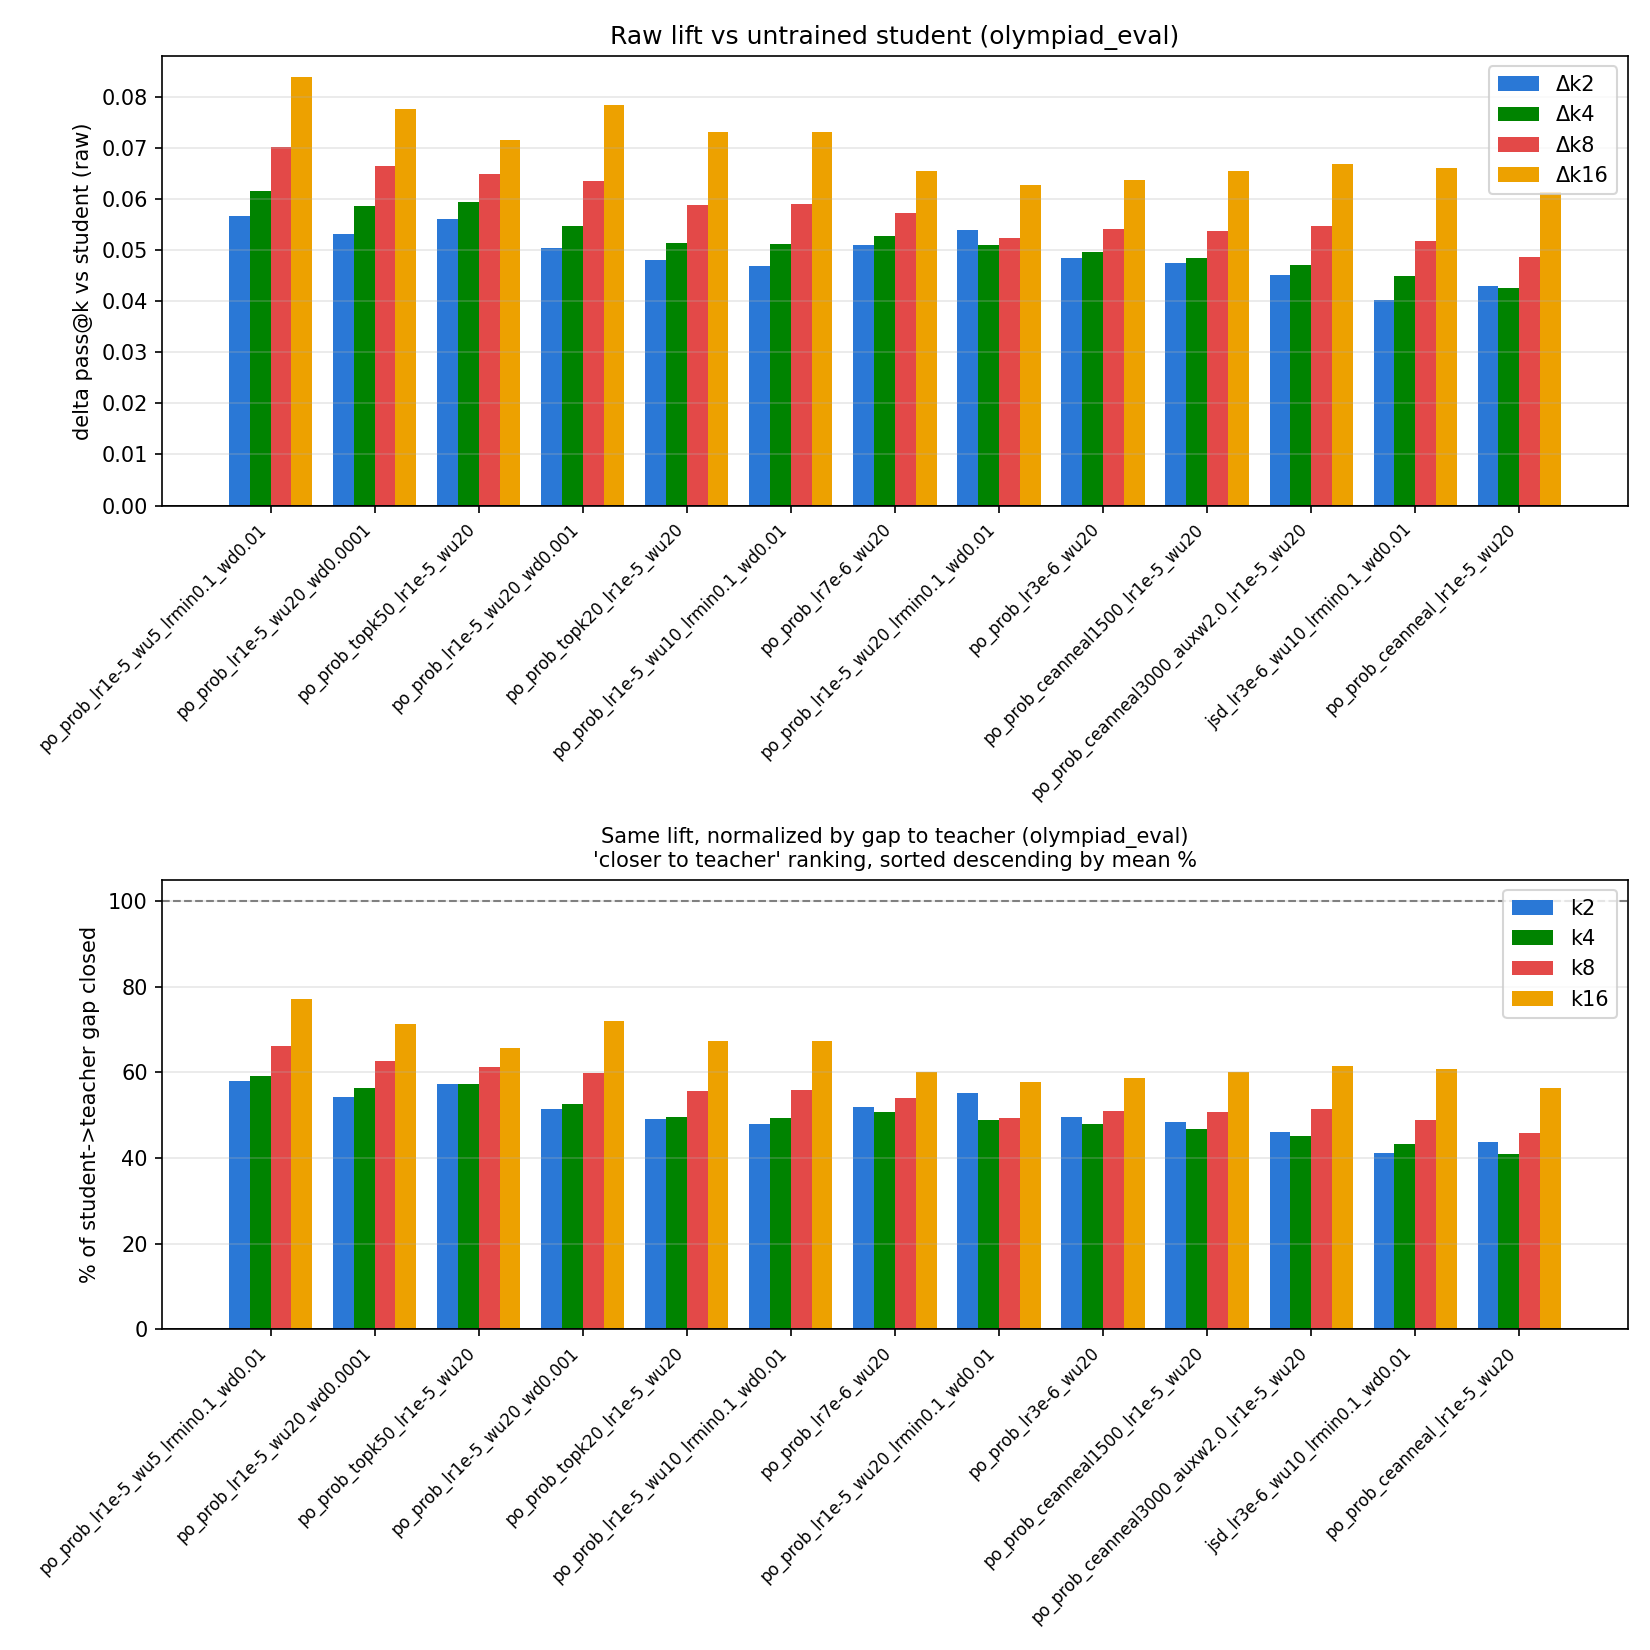
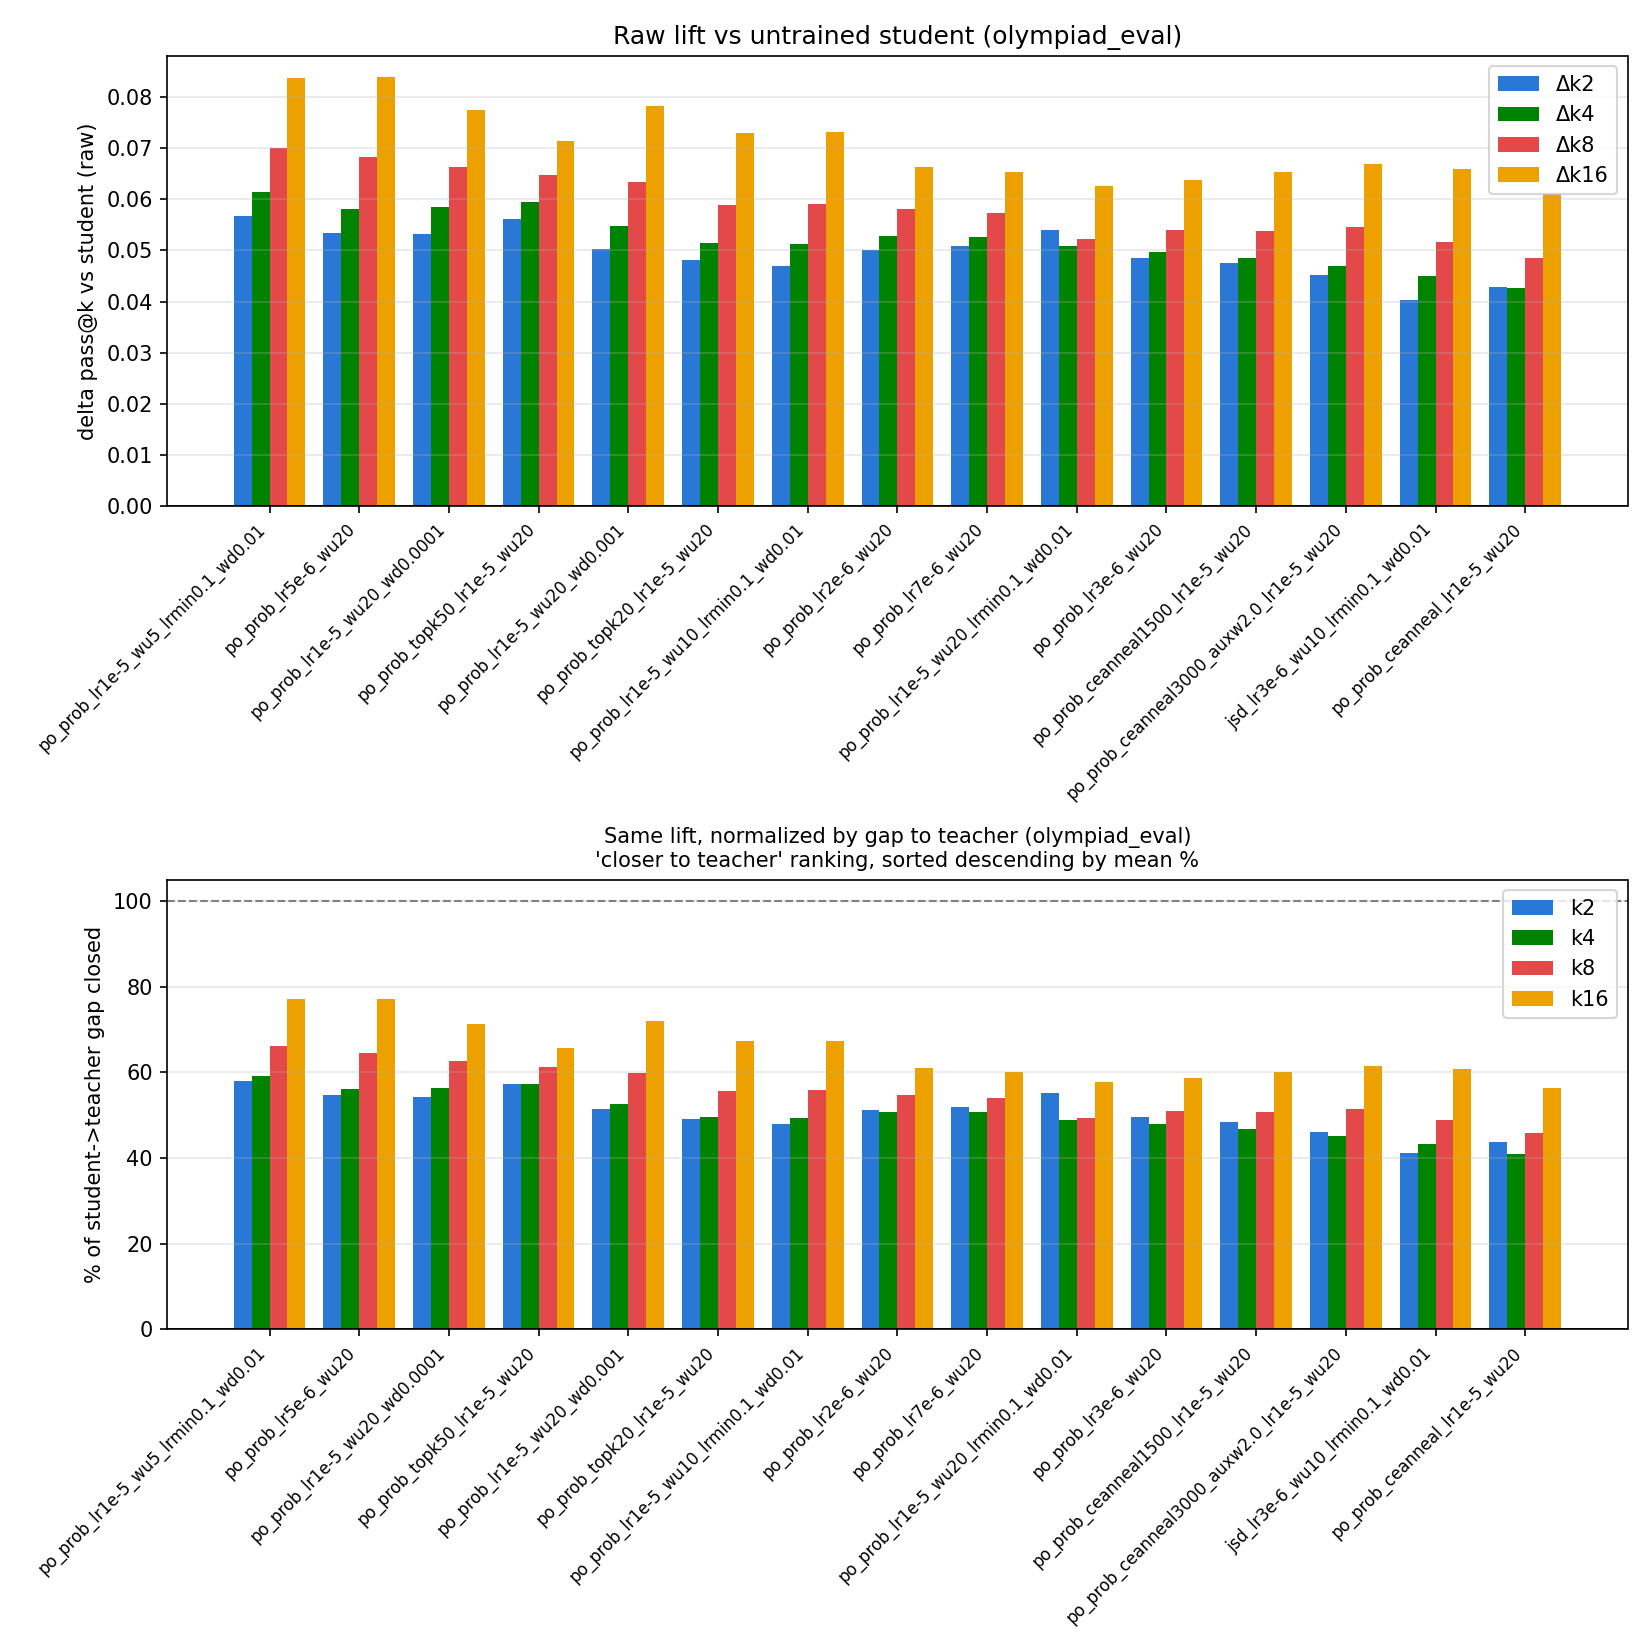
plot_gap_closed: auto-derive significant checkpoints per dataset
Removes the hardcoded olympiad-only checkpoint list -- now derives
the noise-floor-significant set independently for each dataset (same
rule as analyze_passk_movement.py's SS1), since math_eval/gsm8k_eval/
olympiad_eval each have their own floor and their own noise. Adds
gap_closed charts for math_eval and gsm8k_eval alongside olympiad.

diff --git a/scripts/plot_gap_closed.py b/scripts/plot_gap_closed.py
@@ -16,11 +16,22 @@ so the best "lifter" is always leftmost.
 
 USAGE:
     python scripts/plot_gap_closed.py --dataset olympiad_eval.jsonl
+    python scripts/plot_gap_closed.py --dataset math_eval.jsonl
+    # override with an explicit list instead of auto-deriving:
     python scripts/plot_gap_closed.py --dataset math_eval.jsonl --checkpoints po_prob_lr3e-6_wu20,po_prob_lr7e-6_wu20
+
+CHECKPOINT SELECTION: by default, auto-derives the "significant" set the same
+way analyze_passk_movement.py's §1 does -- every 0.6B/8B checkpoint in the CSV
+whose delta-vs-student clears the derived per-k noise floor (2 x std over the
+flat low-LR prefix_overlap/prob cluster) at ANY of k2/k4/k8/k16. This means the
+significant set is genuinely different per dataset (math_eval/gsm8k_eval/
+olympiad_eval each have their own floor and their own noise), not a hardcoded
+list copied from one dataset's report. Pass --checkpoints to override.
 """
 import argparse
 import csv
 import os
+import statistics
 
 import matplotlib
 matplotlib.use("Agg")
@@ -29,22 +40,20 @@ import numpy as np
 
 K_OF_INTEREST = [2, 4, 8, 16]
 
-# significant (above-noise-floor) checkpoints from analyze_passk_movement.py's
-# olympiad_eval report -- override with --checkpoints for another dataset/list.
-DEFAULT_CHECKPOINTS = [
-    "po_prob_lr1e-5_wu5_lrmin0.1_wd0.01", "po_prob_lr1e-5_wu20_wd0.0001",
-    "po_prob_topk50_lr1e-5_wu20", "po_prob_lr1e-5_wu20_wd0.001",
-    "po_prob_lr1e-5_wu10_lrmin0.1_wd0.01", "po_prob_topk20_lr1e-5_wu20",
-    "po_prob_lr7e-6_wu20", "po_prob_ceanneal3000_auxw2.0_lr1e-5_wu20",
-    "po_prob_lr3e-6_wu20", "po_prob_ceanneal1500_lr1e-5_wu20",
-    "po_prob_lr1e-5_wu20_lrmin0.1_wd0.01", "jsd_lr3e-6_wu10_lrmin0.1_wd0.01",
-    "po_prob_ceanneal_lr1e-5_wu20",
+NOISE_CLUSTER_PROB_06B_8B = [
+    "po_prob_lr1e-6_wu20", "po_prob_lr3e-6_wu20", "po_prob_lr7e-6_wu20",
+    "po_prob_lr1e-5_wu20_lrmin0.1_wd0.01",
 ]
 
 
 def load_csv(path):
     with open(path, encoding="utf-8") as f:
         return list(csv.DictReader(f))
+
+
+def run_name(model_path):
+    parts = model_path.rstrip("/").split("/")
+    return parts[-2] if len(parts) >= 2 else model_path
 
 
 def passk_at_frag(rows, frag, ds, k):
@@ -61,18 +70,43 @@ def passk_at_exact(rows, name, ds, k):
     return None
 
 
+def derive_noise_floor(rows, ds):
+    floor = {}
+    for k in K_OF_INTEREST:
+        vals = [v for v in (passk_at_frag(rows, f, ds, k) for f in NOISE_CLUSTER_PROB_06B_8B) if v is not None]
+        floor[k] = 2 * statistics.stdev(vals) if len(vals) >= 3 else None
+    return floor
+
+
+def auto_significant_checkpoints(rows, ds, student, floor):
+    """Same rule as analyze_passk_movement.py's §1: every checkpoint with at
+    least one |delta vs student| clearing that k's derived noise floor."""
+    all_names = sorted(set(run_name(r["model"]) for r in rows))
+    significant = []
+    for name in all_names:
+        for k in K_OF_INTEREST:
+            v = passk_at_frag(rows, name, ds, k)
+            if v is None or student.get(k) is None or floor.get(k) is None:
+                continue
+            if abs(v - student[k]) >= floor[k]:
+                significant.append(name)
+                break
+    return significant
+
+
 def main():
     ap = argparse.ArgumentParser()
     ap.add_argument("--csv", default="results/passK/passk_hparam_sweep.csv")
     ap.add_argument("--baselines_csv", default="results/passK/passk_baselines.csv")
     ap.add_argument("--dataset", default="olympiad_eval.jsonl")
-    ap.add_argument("--checkpoints", default=",".join(DEFAULT_CHECKPOINTS))
+    ap.add_argument("--checkpoints", default=None,
+                    help="comma list to override; default auto-derives the "
+                         "noise-floor-significant set for this dataset")
     ap.add_argument("--outdir", default="results/passK")
     args = ap.parse_args()
 
     rows = load_csv(args.csv)
     base = load_csv(args.baselines_csv)
-    checkpoints = [c.strip() for c in args.checkpoints.split(",")]
     ds = args.dataset
     tag = ds.replace(".jsonl", "")
 
@@ -80,6 +114,13 @@ def main():
     teacher = {k: passk_at_exact(base, "Qwen/Qwen3-8B", ds, k) for k in K_OF_INTEREST}
     gap = {k: (teacher[k] - student[k]) if teacher[k] is not None and student[k] is not None else None
            for k in K_OF_INTEREST}
+
+    if args.checkpoints:
+        checkpoints = [c.strip() for c in args.checkpoints.split(",")]
+    else:
+        floor = derive_noise_floor(rows, ds)
+        checkpoints = auto_significant_checkpoints(rows, ds, student, floor)
+        print(f"[auto] {len(checkpoints)} checkpoint(s) clear the {tag} noise floor: {', '.join(checkpoints)}")
 
     data = []  # (name, {k: delta}, {k: pct_closed}, mean_pct)
     for ck in checkpoints:
